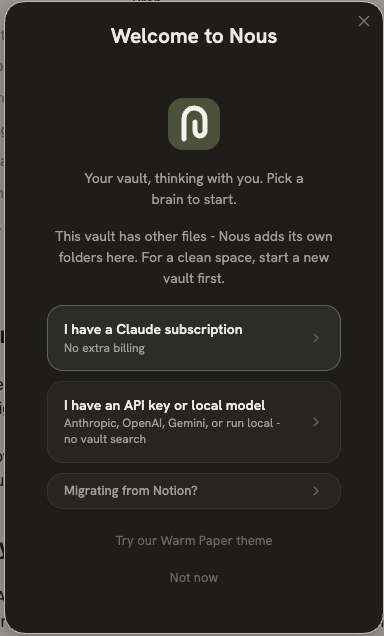
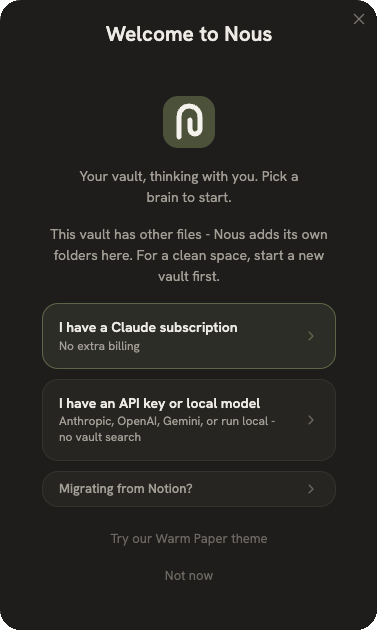
Fix a wrong privacy claim, drop the Features table, explain the why
The Claude Code app and any direct API key both send captured notes
to that provider - only local speech-to-text and Ollama keep notes
on the machine. The README previously grouped Claude Code in with
the "keeps your data on your machine" claim, which was wrong and
directly contradicted the correct framing already in
docs/ARCHITECTURE.md's privacy section.

Replaced the Features table (mostly restating the Get started steps)
with two short paragraphs: why tags/links/wikis exist (no manual
sorting, one connected picture instead of a pile of notes), and the
two features worth keeping on their own - the default note look and
using the vault as AI context.

Also re-cropped the wizard screenshot: trimmed a few stray pixels of
background left over from the first crop, and added real rounded
corners with transparency to match the modal's own look.

diff --git a/README.md b/README.md
@@ -34,12 +34,24 @@
 </p>
 
 Nous turns anything you capture into a tagged note. A capture can be a
-thought, a voice memo, a call, a photo, or a PDF. Nous links each new note
-to related notes on its own. Once a topic has enough notes, Nous writes a
-wiki page for it and keeps that page current.
+thought, a voice memo, a call, a photo, or a PDF.
 
-Nous keeps your data on your machine by default. It works with the Claude
-Code app, local speech-to-text, or Ollama. An API key is optional.
+Nous can write your notes through the Claude Code app, a direct API key, or
+a free local model in Ollama. Only local speech-to-text and Ollama keep
+your notes on your machine. The Claude Code app and a direct API key both
+send your notes to that provider.
+
+Tags and links turn scattered captures into one connected picture, with no
+manual sorting. A tag groups every note on the same topic. A link connects
+a note to the notes near it, so you can trace an idea across time. Once a
+topic has enough notes, Nous writes one wiki page that pulls them together,
+and keeps it current as you capture more.
+
+Notes get a clean, editorial look by default - see
+[the Nous look](docs/USAGE.md#the-nous-look). You can also point Claude
+Code at your vault, so every coding project gets your tagged notes as
+background context, for free -
+[why this works](https://xebia.com/blog/personal-rag-without-the-drag/).
 
 **Works on:** Mac, Windows, and Linux computers. Meeting capture needs a
 Mac.
@@ -47,7 +59,6 @@ Mac.
 ## Contents
 
 - [Get started](#get-started)
-- [Features](#features)
 - [How it works](#how-it-works)
 - [Documentation](#documentation)
 - [For developers](#for-developers)
@@ -93,18 +104,6 @@ tagged and linked to related notes.
 
 *Note: Obsidian must stay open for Nous to work. If Obsidian is closed, a
 new capture waits in `00-Inbox` until you open it again.*
-
-## Features
-
-| | | |
-|---|---|---|
-| 🎙 | **Capture anything** | Type, paste, drop a file, or record a voice note or a meeting. Meeting capture is Mac only. |
-| 🏷 | **Automatic tags** | Every capture gets tags from a fixed list. You sort nothing by hand. |
-| 🔗 | **Automatic links** | Related notes connect to each other on their own. |
-| 📖 | **Self-updating wikis** | Once a topic has enough notes, Nous writes and keeps a wiki page for it. |
-| 🔒 | **Local-first** | The Claude Code app, local speech-to-text, and Ollama keep data on your machine. An API key is optional. |
-| 🎨 | **A clean look, on by default** | A clean header and a folded transcript replace the raw properties list. See [the Nous look](docs/USAGE.md#the-nous-look). |
-| 🧠 | **Your vault as AI context** | Point Claude Code at your vault. Every project then knows about your tagged notes, for free. [Why this works](https://xebia.com/blog/personal-rag-without-the-drag/). |
 
 ## How it works
 
